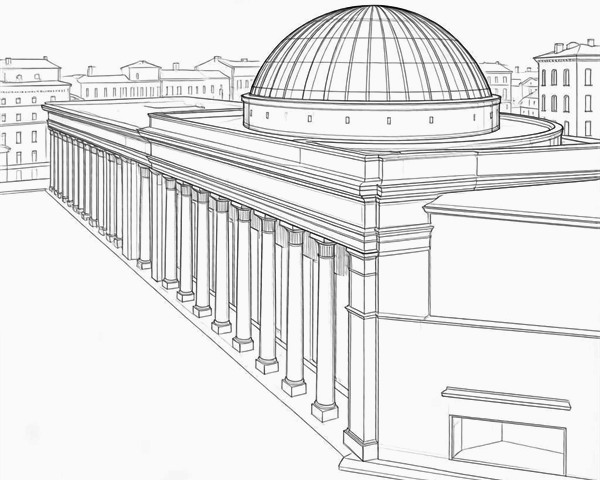
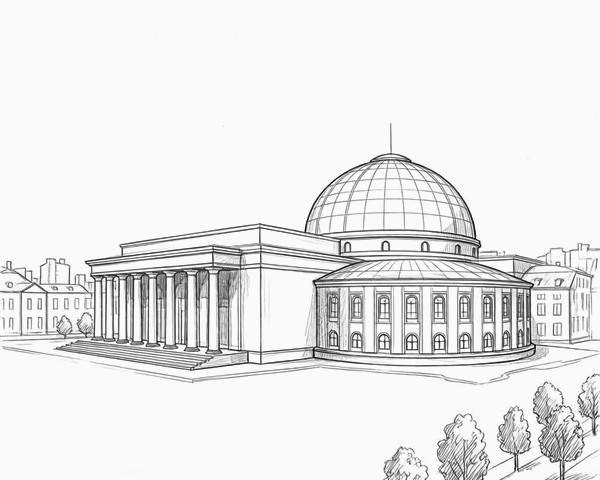
Add files via upload

diff --git a/index.html b/index.html
@@ -101,7 +101,7 @@ a.go:focus-visible{outline:2px solid var(--ink);outline-offset:2px}
 <section class="hero">
   <div class="wrap" style="position:relative">
     <figure class="shot shot--a"><img src="assets/hero-a.jpg" alt="Скетч театра оперы и балета" width="600" height="480"></figure>
-    <figure class="shot shot--b"><img src="assets/hero-b.jpg" alt="Скетч городского торгового корпуса на Красном проспекте" width="440" height="275"></figure>
+    <figure class="shot shot--b"><img src="assets/hero-b.jpg" alt="Скетч здания краеведческого музея" width="440" height="275"></figure>
     <figure class="shot shot--c"><img src="assets/hero-c.jpg" alt="Скетч Бугринского моста через Обь" width="560" height="315"></figure>
     <figure class="shot shot--d"><img src="assets/hero-d.jpg" alt="Скетч технопарка в Академгородке" width="536" height="402"></figure>
 
